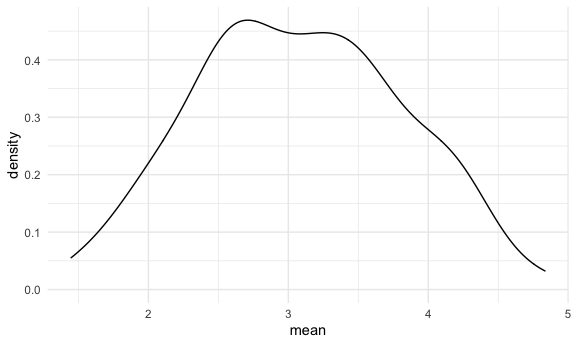
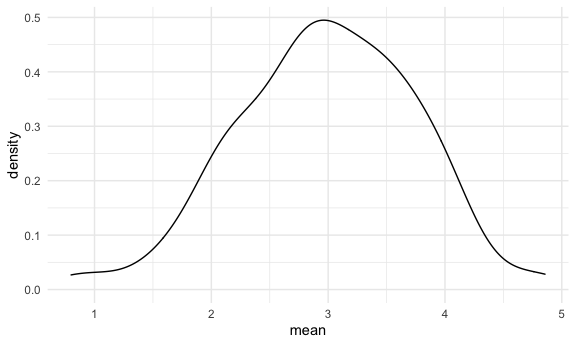
we did simulations

diff --git a/simulation.md b/simulation.md
@@ -31,7 +31,7 @@ sim_mean_sd(30)
     ## # A tibble: 1 x 2
     ##    mean    sd
     ##   <dbl> <dbl>
-    ## 1  3.70  4.61
+    ## 1  3.33  3.70
 
 ## Let’s simulate a lot
 
@@ -52,16 +52,16 @@ bind_rows(output)
     ## # A tibble: 100 x 2
     ##     mean    sd
     ##    <dbl> <dbl>
-    ##  1  3.19  4.61
-    ##  2  2.87  3.63
-    ##  3  2.29  3.65
-    ##  4  3.69  4.49
-    ##  5  2.99  4.44
-    ##  6  2.96  3.55
-    ##  7  3.34  3.28
-    ##  8  3.96  4.00
-    ##  9  1.33  3.26
-    ## 10  2.40  4.57
+    ##  1  3.53  3.18
+    ##  2  3.44  3.84
+    ##  3  3.45  3.53
+    ##  4  1.68  3.69
+    ##  5  3.95  4.22
+    ##  6  3.27  4.34
+    ##  7  2.05  4.05
+    ##  8  3.10  3.72
+    ##  9  3.55  4.11
+    ## 10  3.87  3.79
     ## # … with 90 more rows
 
 Let’s use a loop function
@@ -92,7 +92,7 @@ sim_results %>%
     ## # A tibble: 1 x 2
     ##   avg_sample_mean sd_sample_mean
     ##             <dbl>          <dbl>
-    ## 1            3.08          0.732
+    ## 1            2.98          0.756
 
 ``` r
 sim_results %>% 
@@ -100,3 +100,76 @@ sim_results %>%
 ```
 
 <img src="simulation_files/figure-gfm/unnamed-chunk-5-2.png" width="90%" />
+
+## Let’s try other sample sizes.
+
+``` r
+n_list = 
+  list(
+    "n = 30" = 30,
+    "n = 60" = 60,
+    "n = 120" = 120,
+    "n = 240" = 240
+  )
+
+output = vector("list", length = 4)
+
+output[[1]] = rerun(100, sim_mean_sd(sample_size = n_list[[1]])) %>% bind_rows()
+output[[2]] = rerun(100, sim_mean_sd(sample_size = n_list[[2]])) %>% bind_rows()
+
+for (i in 1:4) {
+  
+  output[[i]] = 
+    rerun(100, sim_mean_sd(sample_size = n_list[[i]])) %>% 
+    bind_rows()
+  
+}
+```
+
+``` r
+sim_results = 
+  tibble(
+  sample_size = c(30, 60, 120, 240)
+) %>% 
+  mutate(
+    output_lists = map(.x = sample_size, ~ rerun(1000, sim_mean_sd(.x))),
+    estimate_df = map(output_lists, bind_rows)
+  ) %>% 
+  select(-output_lists) %>% 
+  unnest(estimate_df)
+```
+
+Do zome data frame things.
+
+``` r
+sim_results %>% 
+  mutate(
+    sample_size = str_c("n = ", sample_size),
+    sample_size = fct_inorder(sample_size)
+  ) %>% 
+  ggplot(aes(x = sample_size, y = mean)) +
+  geom_violin()
+```
+
+<img src="simulation_files/figure-gfm/unnamed-chunk-8-1.png" width="90%" />
+
+``` r
+sim_results %>% 
+  group_by(sample_size) %>% 
+  summarise(
+    avg_sample_mean = mean(mean),
+    sd_sample_mean = sd(mean)
+  )
+```
+
+    ## `summarise()` ungrouping output (override with `.groups` argument)
+
+    ## # A tibble: 4 x 3
+    ##   sample_size avg_sample_mean sd_sample_mean
+    ##         <dbl>           <dbl>          <dbl>
+    ## 1          30            3.00          0.703
+    ## 2          60            3.02          0.523
+    ## 3         120            3.00          0.377
+    ## 4         240            3.00          0.261
+
+`set.seed(1)` is the function that used to keep the same random numbers
